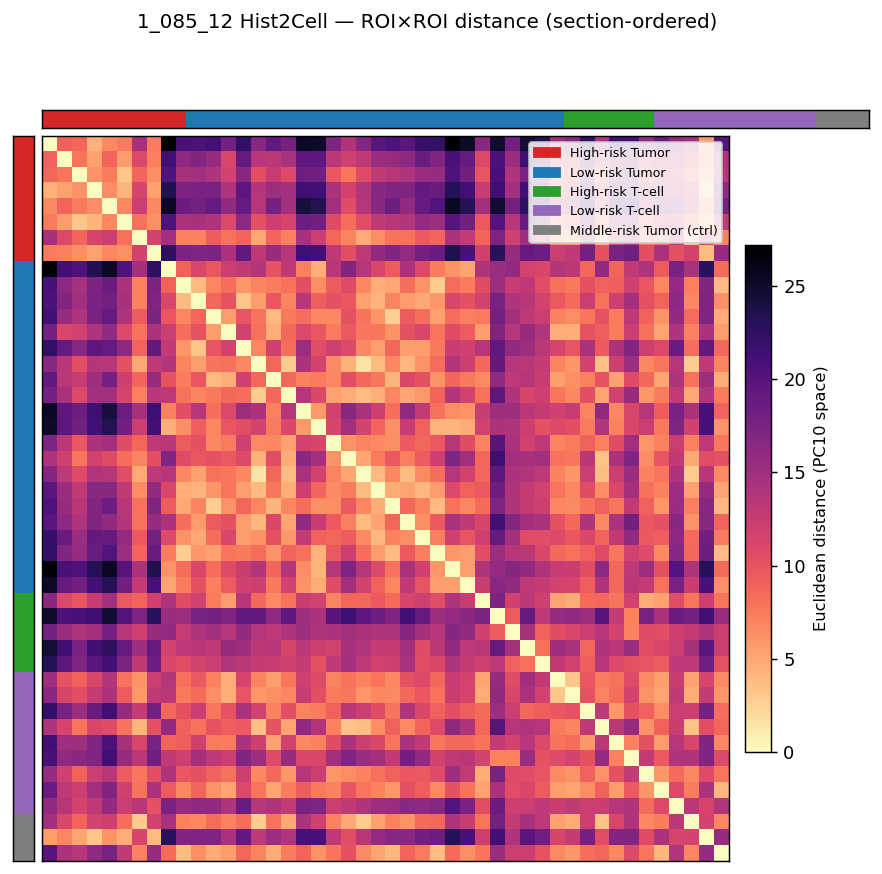
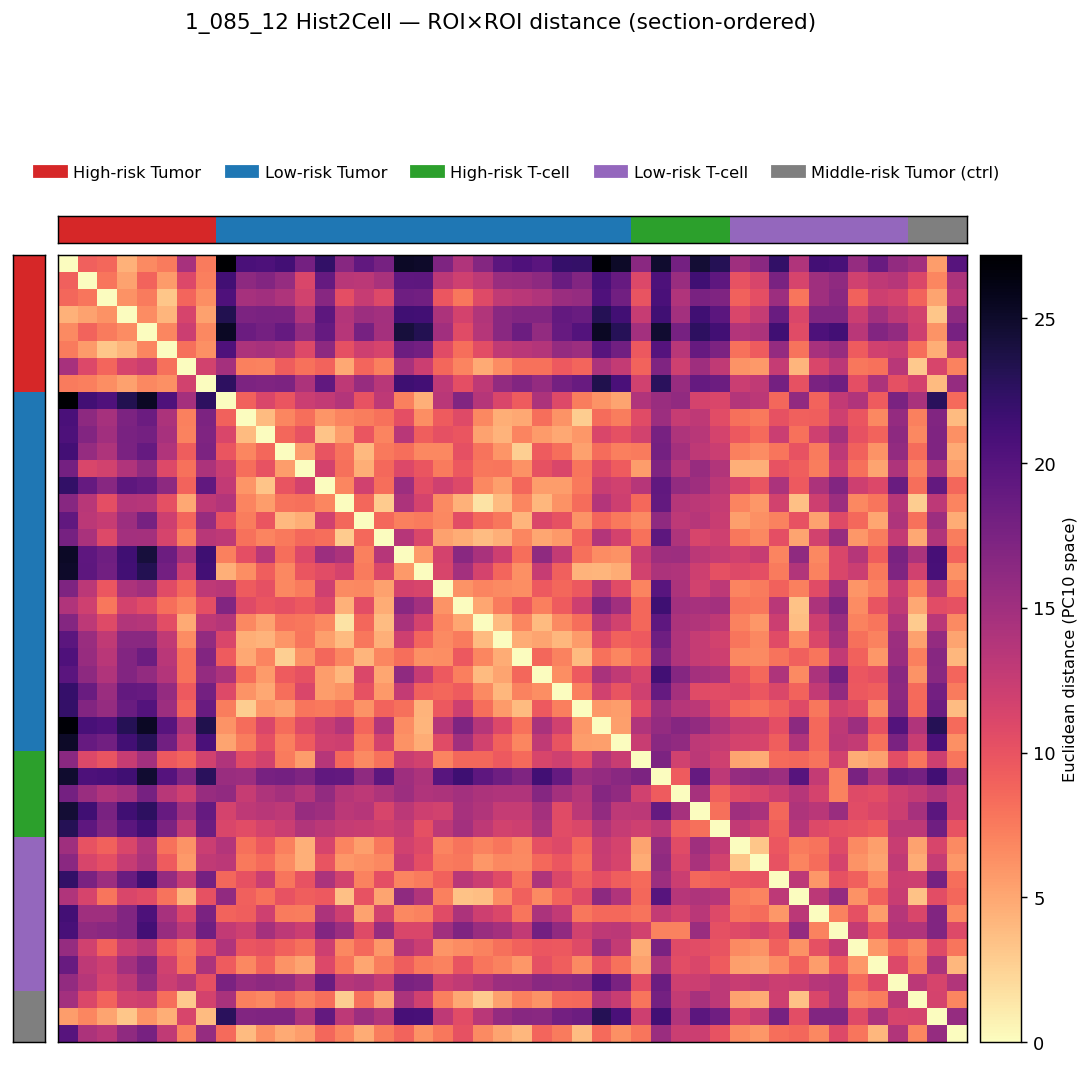
fix(distance heatmap): align section strips with heatmap, move legend out
이전 layout 에서 colorbar 가 main heatmap 의 폭을 빼앗으면서 위쪽 section
색 strip 과 어긋남. 또 legend 가 heatmap 안 우상단에 박혀 데이터를 가렸음.
3×3 GridSpec 으로 재구성: 행 0 = legend, 행 1 = top section strip,
행 2 = main(좌 strip / heatmap / colorbar). strip 과 heatmap 이 한 컬럼·
한 행을 공유하므로 정렬이 깨지지 않음.

diff --git a/inference/analysis_spatial/intra_inter_check.py b/inference/analysis_spatial/intra_inter_check.py
@@ -104,12 +104,18 @@ def plot_distance_heatmap(D, sections, scfg, title, out_path):
     D_ord = D[order][:, order]
     sec_ord = sec_arr[order]
 
-    fig = plt.figure(figsize=(8.5, 7.5))
-    gs = fig.add_gridspec(2, 2, width_ratios=[0.025, 1],
-                          height_ratios=[0.025, 1], wspace=0.02, hspace=0.02)
-    ax_top = fig.add_subplot(gs[0, 1])
-    ax_left = fig.add_subplot(gs[1, 0])
-    ax_main = fig.add_subplot(gs[1, 1])
+    fig = plt.figure(figsize=(10, 9))
+    # Row 0 = legend strip, row 1 = top section colour strip, row 2 = main row
+    # Col 0 = left section strip, col 1 = main heatmap, col 2 = colorbar
+    gs = fig.add_gridspec(3, 3,
+                          width_ratios=[0.035, 1, 0.045],
+                          height_ratios=[0.08, 0.035, 1],
+                          wspace=0.04, hspace=0.04)
+    ax_legend = fig.add_subplot(gs[0, :])
+    ax_top    = fig.add_subplot(gs[1, 1])
+    ax_left   = fig.add_subplot(gs[2, 0])
+    ax_main   = fig.add_subplot(gs[2, 1])
+    ax_cb     = fig.add_subplot(gs[2, 2])
 
     im = ax_main.imshow(D_ord, cmap="magma_r", aspect="auto")
     ax_main.set_xticks([]); ax_main.set_yticks([])
@@ -124,15 +130,17 @@ def plot_distance_heatmap(D, sections, scfg, title, out_path):
                    vmin=0, vmax=len(scfg["order"])-1)
     ax_left.set_xticks([]); ax_left.set_yticks([])
 
-    cb = fig.colorbar(im, ax=ax_main, shrink=0.7, pad=0.02)
+    cb = fig.colorbar(im, cax=ax_cb)
     cb.set_label("Euclidean distance (PC10 space)", fontsize=9)
 
     handles = [plt.Rectangle((0, 0), 1, 1, color=scfg["colors"][s],
                               label=scfg["labels"][s]) for s in scfg["order"]]
-    ax_main.legend(handles=handles, loc="upper right", fontsize=7,
-                   framealpha=0.85)
+    ax_legend.axis("off")
+    ax_legend.legend(handles=handles, loc="center",
+                      ncol=len(scfg["order"]), fontsize=9, frameon=False,
+                      handletextpad=0.4, columnspacing=1.5)
 
-    fig.suptitle(title, fontsize=11)
+    fig.suptitle(title, fontsize=12, y=0.99)
     fig.savefig(out_path, dpi=130, bbox_inches="tight")
     plt.close(fig)
 
